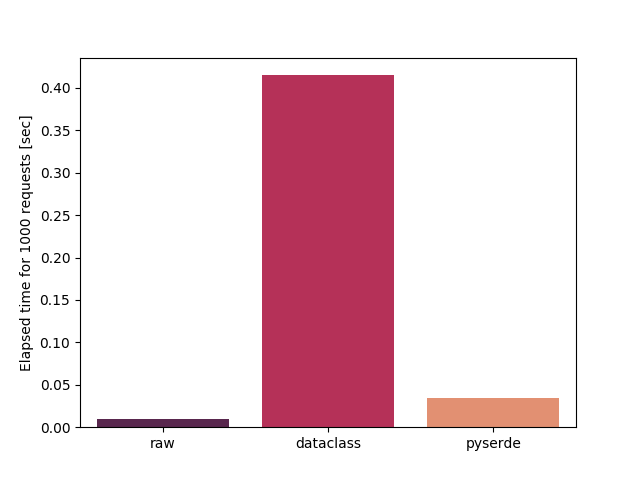
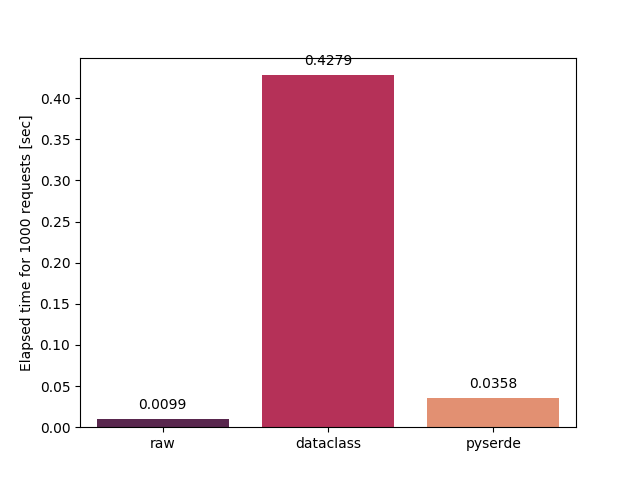
Document Benchmark on README

diff --git a/bench/bench.py b/bench/bench.py
@@ -79,8 +79,10 @@ class Bencher:
         if self.opt.chart:
             x = np.array([r[0] for r in self.result])
             y = np.array([r[1] for r in self.result])
-            ax = sns.barplot(x=x, y=y, palette="rocket")
-            ax.set(ylabel=f'Elapsed time for {self.number} requests [sec]')
+            chart = sns.barplot(x=x, y=y, palette="rocket")
+            chart.set(ylabel=f'Elapsed time for {self.number} requests [sec]')
+            for p in chart.patches:
+                chart.annotate(format(p.get_height(), '.4f'), (p.get_x() + p.get_width() / 2., p.get_height()), ha = 'center', va = 'center', xytext = (0, 10), textcoords = 'offset points')
             plt.savefig(str(self.opt.output / f'{self.name}.png'))
             plt.close()
 

diff --git a/README.md b/README.md
@@ -53,15 +53,25 @@ From Json: Hoge(i=10, s='hoge', f=100.0, b=True)
 
 ## Benchmark
 
-Measured elapsed time to serialize and deserialize 10,000 [small structs](./bench/raw.py) into and from Json.
+Serialize and Deserialize [a small struct](https://github.com/yukinarit/pyserde/blob/bench/bench/dataclasses_class.py#L7-L12) into and from json 10,000 times.
 
-* Serialize
+### Environment
 
-<img src="./bench/charts/serialize_small.png" width="60%">
+* macOS 10.14 Mojave
+* Intel 2.3GHz 8-core Intel Core i9
+* DDR4 32GB RAM
 
-* Deserialize
+### Result
 
-<img src="./bench/charts/deserialize_small.png" width="60%">
+| Serialize | Deserialize |
+|-----------|-------------|
+| <img src="./bench/charts/serialize_small.png"> | <img src="./bench/charts/deserialize_small.png"> |
+
+* `raw` Manual serialize and deserialize. Fastest in theory.
+* [`dacite`](https://github.com/konradhalas/dacite)
+* [`mashumaro`](https://github.com/Fatal1ty/mashumaro)
+
+You can check [the code](bench/bench.py) for more information.
 
 ## Features
 
